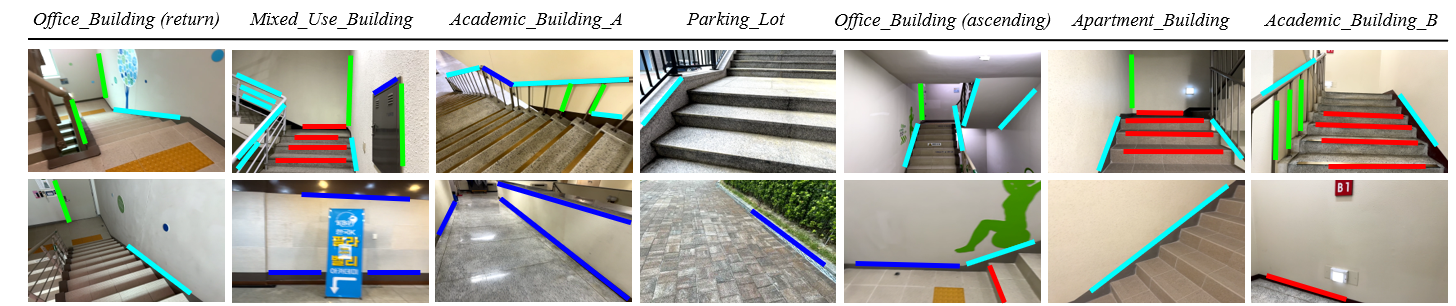
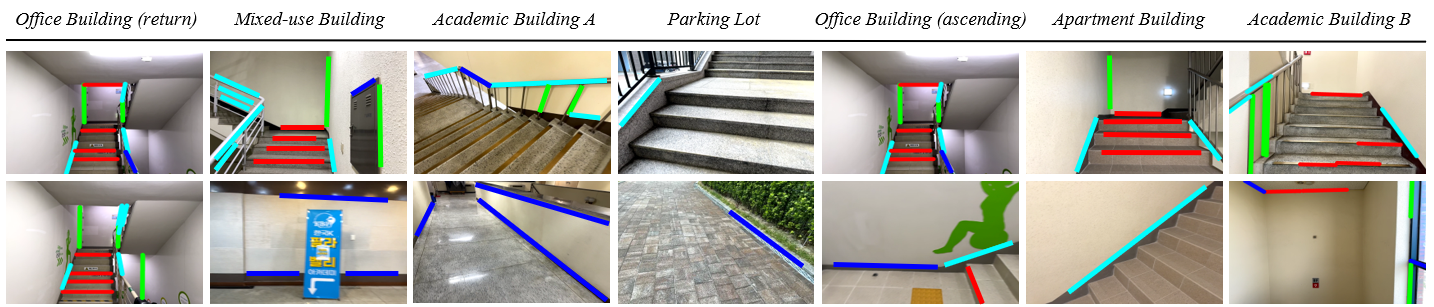
Sync to newer paper source (7): add Frames column, refresh pipeline/dataset figures
Diffed the newer Overleaf export against the deployed page:
- Dataset-stats table (Table I) gained a per-sequence frame count
  (9330/6455/2857/3185 closed; 4990/12240/3471 open); added the column
- Re-rendered pipeline and dataset figures replaced
- FDE tables (II/III), ablation (IV), qualitative crops, and the
  abstract are unchanged; rotation-fusion ablation revisions are moot
  since that figure was removed from the page

Authors/links/BibTeX remain anonymous.

diff --git a/index.html b/index.html
@@ -283,18 +283,18 @@
           <table class="restable">
             <caption>Table I. Statistics of the author-collected dataset.</caption>
             <thead>
-              <tr><th>Sequence</th><th>Trajectory Length [m]</th><th>Angular Travel [10<sup>3</sup>&nbsp;&deg;]</th></tr>
+              <tr><th>Sequence</th><th>Frames</th><th>Trajectory Length [m]</th><th>Angular Travel [10<sup>3</sup>&nbsp;&deg;]</th></tr>
             </thead>
             <tbody>
-              <tr><td colspan="3" style="text-align:left; font-style:italic; background:#efefef; color:#4a4a4a;">Closed-loop sequences</td></tr>
-              <tr><td>Office Building (return)</td><td>376.996</td><td>12.605</td></tr>
-              <tr><td>Mixed-use Building</td><td>72.671</td><td>2.146</td></tr>
-              <tr><td>Academic Building A</td><td>119.623</td><td>3.730</td></tr>
-              <tr><td>Parking Lot</td><td>164.596</td><td>2.934</td></tr>
-              <tr><td colspan="3" style="text-align:left; font-style:italic; background:#efefef; color:#4a4a4a;">Open-loop sequences</td></tr>
-              <tr><td>Office Building (ascending)</td><td>205.581</td><td>6.475</td></tr>
-              <tr><td>Apartment Building</td><td>488.302</td><td>17.898</td></tr>
-              <tr><td>Academic Building B</td><td>107.625</td><td>4.510</td></tr>
+              <tr><td colspan="4" style="text-align:left; font-style:italic; background:#efefef; color:#4a4a4a;">Closed-loop sequences</td></tr>
+              <tr><td>Office Building (return)</td><td>9330</td><td>376.996</td><td>12.605</td></tr>
+              <tr><td>Mixed-use Building</td><td>6455</td><td>72.671</td><td>2.146</td></tr>
+              <tr><td>Academic Building A</td><td>2857</td><td>119.623</td><td>3.730</td></tr>
+              <tr><td>Parking Lot</td><td>3185</td><td>164.596</td><td>2.934</td></tr>
+              <tr><td colspan="4" style="text-align:left; font-style:italic; background:#efefef; color:#4a4a4a;">Open-loop sequences</td></tr>
+              <tr><td>Office Building (ascending)</td><td>4990</td><td>205.581</td><td>6.475</td></tr>
+              <tr><td>Apartment Building</td><td>12240</td><td>488.302</td><td>17.898</td></tr>
+              <tr><td>Academic Building B</td><td>3471</td><td>107.625</td><td>4.510</td></tr>
             </tbody>
           </table>
         </div>
